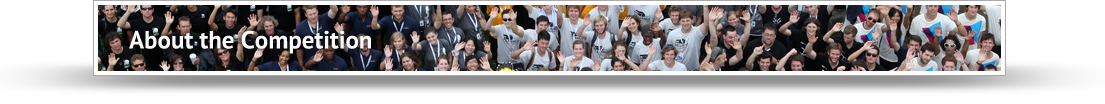
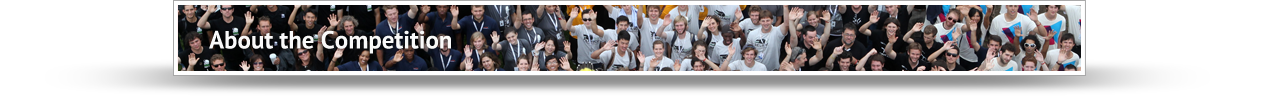
reverted headers

diff --git a/wp-content/themes/solard/style.css b/wp-content/themes/solard/style.css
@@ -831,7 +831,7 @@ body {
 	margin:20px auto;
 	width: 1105px;
 	height: 104px;
-	padding: 10px 10px 0 10px;
+	padding: 10px 0 0 0;
 	text-align: center;
 	display: block;
 }
